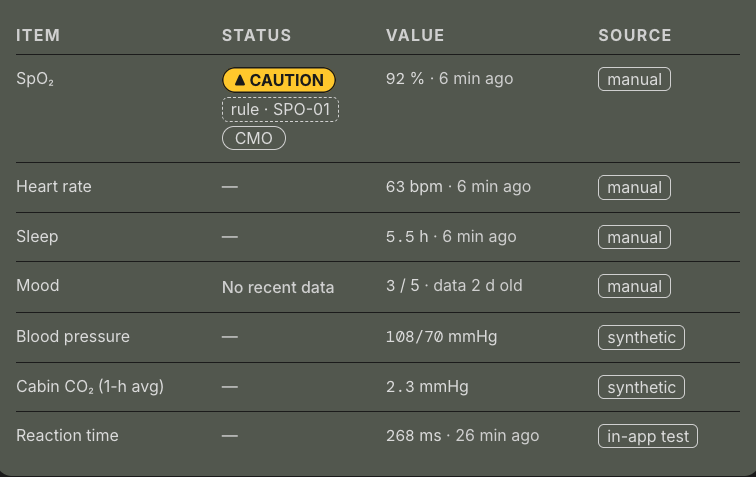
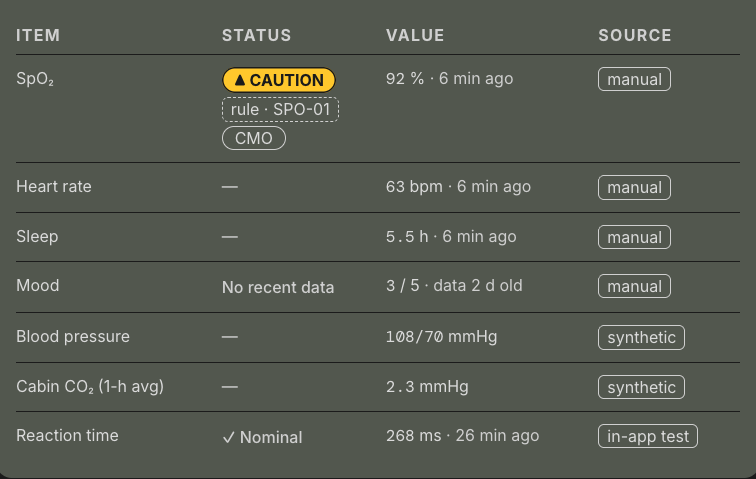
docs(packet): level-badge wording after #11 and screenshots with the COG-01 row (#19)

diff --git a/src/main/frontend/src/ui/packet.css b/src/main/frontend/src/ui/packet.css
@@ -1,5 +1,5 @@
 /* Surgeon packet screen (issue #19, mock docs/features/img/19-mock.png). Colours and sizes: ideas/ui-guidelines.md.
-   The timeline is not a health status: neutral tokens only, never caution or warning. */
+   The timeline is not a health status: neutral tokens only, never a level colour. */
 .packet-home {
   align-self: flex-start;
   display: inline-flex;

diff --git a/src/main/frontend/src/ui/SurgeonPacket.tsx b/src/main/frontend/src/ui/SurgeonPacket.tsx
@@ -29,7 +29,7 @@ function Dash({ meaning }: { meaning: string }) {
   )
 }
 
-// Urgency is the badge; who acts is a separate neutral pill (ui-guidelines §5 "Status badge").
+// Urgency is the badge; who acts is a separate neutral pill (ui-guidelines §5 "Level badge").
 function ItemStatus({ item }: { item: PacketItem }) {
   switch (item.state) {
     case 'unrated':

diff --git a/ideas/ui-guidelines.md b/ideas/ui-guidelines.md
@@ -223,8 +223,8 @@ Brand mark (28 px, not a button) on the left, wordmark "HEALTH" in the centre, i
 ### Surgeon packet (built: #19)
 - **Route:** `#/packet`, opened from the ground-link pill. "← Home" (underlined link) goes back and focuses the "Body systems" heading; opening the screen focuses its heading once. Under the heading a muted line with `PrivateIcon`: "Shared with flight medicine only · Mars transit, one-way delay 14 min 05 s (demo value)".
 - **Columns** (`.layout`): left the "Last packet · store-and-forward" card above the "Next packet · contents" card; right the "Crew note (optional)" card and the send buttons. On phones everything stacks in that order.
-- **Timeline:** four steps (Packet built, Queued for uplink, In transit or Arrived, Earliest reply), each a 36 px dot with the step icon, the name (700; 500 when pending) and a detail with times in `.num`. Done is a solid `--color-text` ring with a filled dot, current a dashed ring with an arrow and `aria-current="step"`, pending an `--color-edge` ring with dots and muted text; each step also has its state word, visually hidden. The steps sit on one line joined by a 2 px `--color-edge` rule, and stack vertically below 600 px. The timeline is not a health status: neutral tokens only, never caution or warning. A muted line under it gives the round trip and "Don't wait for the ground on anything in "What next": your on-board actions already apply."
-- **Contents table:** columns Item, Status, Value, Source with uppercase muted column labels and rows divided by `--color-divider`. Status is the status badge; a caution or warning stacks the badge, the dashed rule tag ("rule · SPO-01") and the tier as a neutral text-height pill ("CMO"). Value is `.num` plus unit and a muted " · 10 min ago" (" · data 1 d old" when stale). Source is the source tag. Below 600 px each row stacks: item and status, then value and source, the column labels visually hidden.
+- **Timeline:** four steps (Packet built, Queued for uplink, In transit or Arrived, Earliest reply), each a 36 px dot with the step icon, the name (700; 500 when pending) and a detail with times in `.num`. Done is a solid `--color-text` ring with a filled dot, current a dashed ring with an arrow and `aria-current="step"`, pending an `--color-edge` ring with dots and muted text; each step also has its state word, visually hidden. The steps sit on one line joined by a 2 px `--color-edge` rule, and stack vertically below 600 px. The timeline is not a health status: neutral tokens only, never a level colour. A muted line under it gives the round trip and "Don't wait for the ground on anything in "What next": your on-board actions already apply."
+- **Contents table:** columns Item, Status, Value, Source with uppercase muted column labels and rows divided by `--color-divider`. Status is the level badge; a flagged row (caution or warning today) stacks the badge, the dashed rule tag ("rule · SPO-01") and the tier as a neutral text-height pill ("CMO"). Value is `.num` plus unit and a muted " · 10 min ago" (" · data 1 d old" when stale). Source is the source tag. Below 600 px each row stacks: item and status, then value and source, the column labels visually hidden.
 - **Not rated:** a value whose indicator has no rule rows shows "—" with the visually hidden text "Not rated", never "✓ Nominal": no rule judged it. A synthetic placeholder shows "—" "No status"; a missing value "—" "No reading" with the "No data" badge.
 - **Crew note:** a textarea inset (`--color-inset`) with the 1 px control edge and 12 px radius, at most 500 characters, and a right-aligned muted `.num` counter ("79 / 500").
 - **Inline confirm:** "Send packet" (primary) is replaced by "Confirm send · arrives ~07:45" (primary, focused) or "Confirm send · waits for ground link" offline, and "Cancel" (secondary), 18 px apart. Both are disabled while saving. A failed save shows "Packet not saved. Try again." (`role="alert"`, body text, no icon or colour) under the buttons.

diff --git a/docs/features/19-surgeon-packet.md b/docs/features/19-surgeon-packet.md
@@ -23,7 +23,7 @@ Seeded check-ins for every shot: SpO₂ 92 %, heart rate 63 bpm and sleep 5.5 h 
 ### Arrived (packet sent at 07:31, clock 07:46: arrival 07:45:05 has passed, the earliest reply is current)
 ![Arrived](img/19-arrived.png)
 
-### Caution row (SpO₂ 92 %: caution badge, rule tag, tier pill; heart rate, sleep and reaction time are "—" not rated; mood is stale)
+### Caution row (SpO₂ 92 %: caution badge, rule tag, tier pill; heart rate and sleep are "—" not rated; mood is stale; reaction time 268 ms is nominal under COG-01)
 ![Caution row](img/19-caution-row.png)
 
 ### Light theme (in transit)
@@ -36,7 +36,7 @@ Seeded check-ins for every shot: SpO₂ 92 %, heart rate 63 bpm and sleep 5.5 h 
 
 ## Mockup and deviations
 
-The screen follows the issue mock [19-mock.png](img/19-mock.png) and [19-mock-390.png](img/19-mock-390.png) ([source](19-surgeon-packet.mock.html)), which adapts [03-surgeon-packet.png](../../ideas/mockups/03-surgeon-packet.png). Styles follow [ui-guidelines.md](../../ideas/ui-guidelines.md) §5 "Surgeon packet", "Pills and tags" and "Status badge".
+The screen follows the issue mock [19-mock.png](img/19-mock.png) and [19-mock-390.png](img/19-mock-390.png) ([source](19-surgeon-packet.mock.html)), which adapts [03-surgeon-packet.png](../../ideas/mockups/03-surgeon-packet.png). Styles follow [ui-guidelines.md](../../ideas/ui-guidelines.md) §5 "Surgeon packet", "Pills and tags" and "Level badge". The badges are still today's caution and warning: the 0–5 levels of [alert-levels.md](../../ideas/alert-levels.md) reach the packet through `Badge` when they are built.
 
 Deviations from mockup 03, all decided in the issue:
 
@@ -44,8 +44,8 @@ Deviations from mockup 03, all decided in the issue:
 |---|---|
 | No FHIR panel, no "Review & edit", no crew or flight-day pills, no symptoms row | Out of scope: FHIR is F24 (pitch only), the check-in has no symptom input yet (F1), roles and flight day are F20/F21. |
 | The contents card is the next packet; the timeline card is the last packet sent | One screen state: Send always builds a new packet from the live draft. |
-| Unrated rows show "—" (Not rated), never "Nominal" | No rule row judges heart rate, sleep, mood or reaction time yet, so calling them nominal would claim a judgement no rule made. |
-| The tier is a separate neutral pill under the rule tag | ui-guidelines §5 "Status badge": urgency is the colour, who acts is a separate neutral pill. |
+| Unrated rows show "—" (Not rated), never "Nominal" | No rule row judges heart rate, sleep or mood yet, so calling them nominal would claim a judgement no rule made. Reaction time became rated on its own when COG-01 (#17) arrived. |
+| The tier is a separate neutral pill under the rule tag | ui-guidelines §5 "Level badge": urgency is the colour, who acts is a separate neutral pill. |
 | Done steps are filled dots, not checks | A check would read as the ✓ of Nominal in the same screen (one icon, one meaning). |
 | "Send packet" opens an inline confirm, not "Send now" | ui-guidelines §5 Buttons: consequential actions get confirm or undo. |
 | A seventh row, "Reaction time" | The PVT reading from #16 joins the packet like every other `READINGS` row. |
